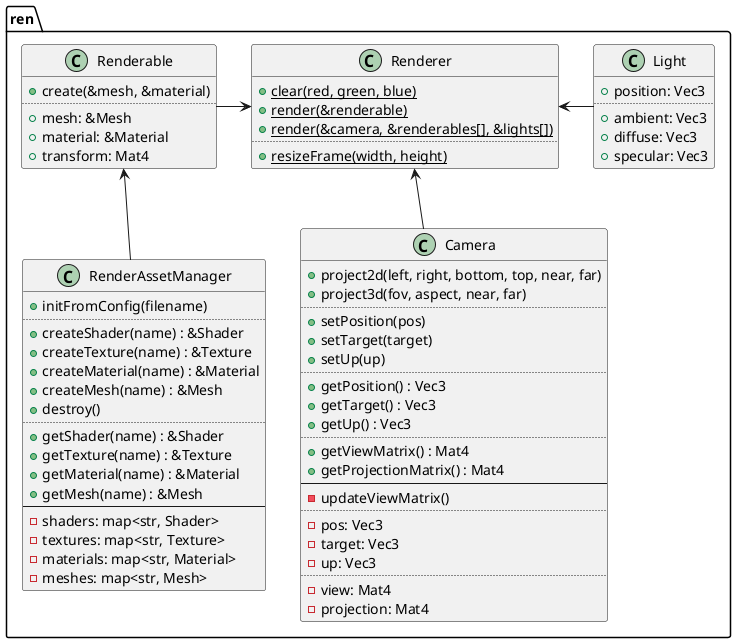
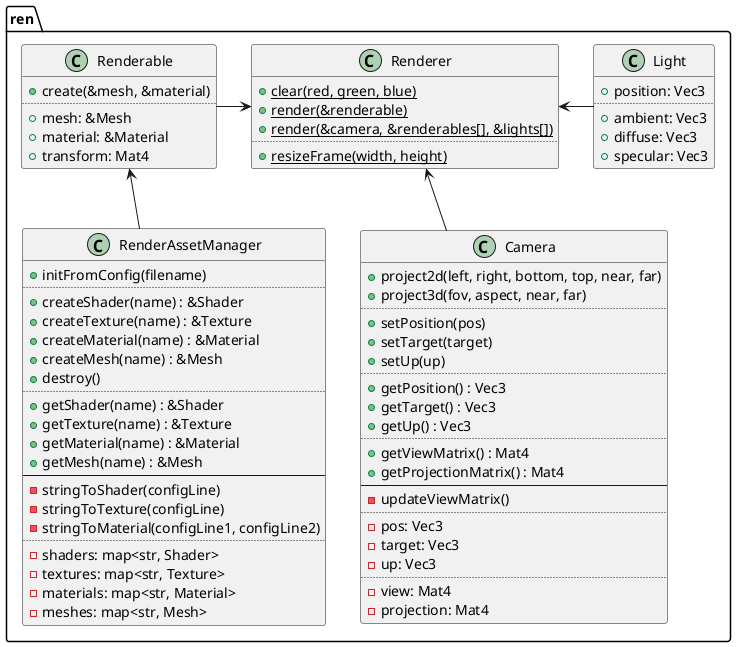
Updated RenderAssetManager::initFromConfig to accommodate material uniforms, added some common materials to assets.txt

diff --git a/src/ren/renderassetmanager.cpp b/src/ren/renderassetmanager.cpp
@@ -6,7 +6,7 @@ using namespace ren;
 
 void RenderAssetManager::initFromConfig(std::string_view fileName) {
 	std::ifstream configIn(fileName.data());
-	std::string configLine = "";
+	std::string configLine = "", configLine2 = "";
 
 	int stage = 0;
 	while (std::getline(configIn, configLine)) {
@@ -30,40 +30,15 @@ void RenderAssetManager::initFromConfig(std::string_view fileName) {
 			continue;
 		}
 
-		// Shaders
 		if (stage == 1) {
-			std::istringstream shaderConfig(configLine);
-			std::string name, vertSource, fragSource;
-			shaderConfig >> name >> vertSource >> fragSource;
-			std::string vsf = std::string(_RES_PATH) + std::string("shader/") + vertSource;
-			std::string fsf = std::string(_RES_PATH) + std::string("shader/") + fragSource;
-			createShader(name).create(vsf.c_str(), fsf.c_str());
-			DEBUG_TRACE("Loaded shader \"%s\" from \"%s\" and \"%s\"", name.c_str(), vertSource.c_str(), fragSource.c_str());
+			stringToShader(configLine);
 		}
-
-		// Textures
 		if (stage == 2) {
-			std::istringstream textureConfig(configLine);
-			std::string name, fileName, filtered;
-			textureConfig >> name >> fileName >> filtered;
-			std::string isf = std::string(_RES_PATH) + std::string("graphics/") + fileName;
-			createTexture(name).create(isf.c_str(), filtered == "T");
-			DEBUG_TRACE("Loaded texture \"%s\" from \"%s\"", name.c_str(), fileName.c_str());
+			stringToTexture(configLine);
 		}
-
-		// Materials
 		if (stage == 3) {
-			std::istringstream materialConfig(configLine);
-			std::string name, shader, texture;
-			int numTextures = 0;
-			materialConfig >> name >> shader >> numTextures;
-			Material& m = createMaterial(name);
-			m.create(getShader(shader));
-			for (int i = 0; i < numTextures; i++) {
-				materialConfig >> texture;
-				m.addTexture(i, getTexture(name));
-			}
-			DEBUG_TRACE("Loaded material \"%s\" from shader \"%s\"", name.c_str(), shader.c_str());
+			std::getline(configIn, configLine2);
+			stringToMaterial(configLine, configLine2);
 		}
 	}
 	DEBUG_TRACE("Loaded asset configuration from %s", fileName.data());
@@ -131,5 +106,63 @@ Mesh& RenderAssetManager::getMesh(std::string_view name) {
 		DEBUG_ASSERT("No mesh by the name of \"%s\"", "%s", name.data());
 	}
 	return value->second;
+}
+
+void RenderAssetManager::stringToShader(const std::string& configLine) {
+	std::istringstream shaderConfig(configLine);
+	std::string name, vertSource, fragSource;
+	shaderConfig >> name >> vertSource >> fragSource;
+
+	std::string vsf = std::string(_RES_PATH) + std::string("shader/") + vertSource;
+	std::string fsf = std::string(_RES_PATH) + std::string("shader/") + fragSource;
+
+	createShader(name).create(vsf.c_str(), fsf.c_str());
+
+	DEBUG_TRACE("Loaded shader \"%s\" from \"%s\" and \"%s\"", name.c_str(), vertSource.c_str(), fragSource.c_str());
+}
+
+void RenderAssetManager::stringToTexture(const std::string& configLine) {
+	std::istringstream textureConfig(configLine);
+	std::string name, fileName, filtered;
+	textureConfig >> name >> fileName >> filtered;
+
+	std::string isf = std::string(_RES_PATH) + std::string("graphics/") + fileName;
+
+	createTexture(name).create(isf.c_str(), filtered == "T");
+
+	DEBUG_TRACE("Loaded texture \"%s\" from \"%s\"", name.c_str(), fileName.c_str());
+}
+
+void RenderAssetManager::stringToMaterial(const std::string& configLine1, const std::string& configLine2) {
+	std::istringstream materialConfig1(configLine1);
+	std::string name, shader, texture;
+	int numTextures = 0;
+	materialConfig1 >> name >> shader >> numTextures;
+
+	Material& m = createMaterial(name);
+	m.create(getShader(shader));
+	for (int i = 0; i < numTextures; i++) {
+		materialConfig1 >> texture;
+		m.addTexture(i, getTexture(texture));
+	}
+
+	if (configLine2 != "-") {
+		std::istringstream materialConfig2(configLine2);
+		lin::Vec3 ambient, diffuse, specular;
+		float shininess;
+		materialConfig2 >> ambient.x >> ambient.y >> ambient.z;
+		materialConfig2 >> diffuse.x >> diffuse.y >> diffuse.z;
+		materialConfig2 >> specular.x >> specular.y >> specular.z;
+		materialConfig2 >> shininess;
+
+		DEBUG_TRACE("%f %f %f", ambient.x, ambient.y, ambient.z);
+
+		m.setUniform("uMaterial.ambient", ambient / 100);
+		m.setUniform("uMaterial.diffuse", diffuse / 100);
+		m.setUniform("uMaterial.specular", specular / 100);
+		m.setUniform("uMaterial.shininess", shininess);
+	}
+
+	DEBUG_TRACE("Loaded material \"%s\" from shader \"%s\"", name.c_str(), shader.c_str());
 }
 

diff --git a/src/gm/game.cpp b/src/gm/game.cpp
@@ -28,12 +28,6 @@ void Game::onInit(int width, int height, ren::RenderAssetManager& ram) {
 		{0.5f, 0.5f, 0.5f},
 	};
 
-	auto& copperMat = ram.getMaterial("copper");
-	copperMat.setUniform("uMaterial.ambient", (lin::Vec3){1, 1, 1});
-	copperMat.setUniform("uMaterial.diffuse", (lin::Vec3){1, 1, 1});
-	copperMat.setUniform("uMaterial.specular", (lin::Vec3){1, 1, 1});
-	copperMat.setUniform("uMaterial.shininess", 16.0f);
-
 	auto cubeData = geo::GeometryGenerator::GenerateCube();
 	auto& cube = ram.createMesh("cube");
 	geo::GeometryTransform::Scale(cubeData, {2, 2, 2});
@@ -42,7 +36,7 @@ void Game::onInit(int width, int height, ren::RenderAssetManager& ram) {
 	cube.addGeometry(cubeData);
 
 	currentScene.renderables.push_back(ren::Renderable());
-	currentScene.renderables[0].create(ram.getMesh("cube"), copperMat);
+	currentScene.renderables[0].create(ram.getMesh("cube"), ram.getMaterial("copper"));
 }
 
 void Game::onResize(int width, int height) {

diff --git a/src/ren/renderassetmanager.hpp b/src/ren/renderassetmanager.hpp
@@ -28,6 +28,10 @@ namespace ren {
 		Mesh& getMesh(std::string_view name);
 
 	private:
+		void stringToShader(const std::string& configLine);
+		void stringToTexture(const std::string& configLine);
+		void stringToMaterial(const std::string& configLine1, const std::string& configLine2);
+
 		std::map<std::string, Shader, std::less<>> shaders;
 		std::map<std::string, Texture, std::less<>> textures;
 		std::map<std::string, Material, std::less<>> materials;

diff --git a/src/gm/scene.cpp b/src/gm/scene.cpp
@@ -4,4 +4,3 @@ using namespace gm;
 
 void Scene::updatePhysics(float deltaTime) {
 }
-
